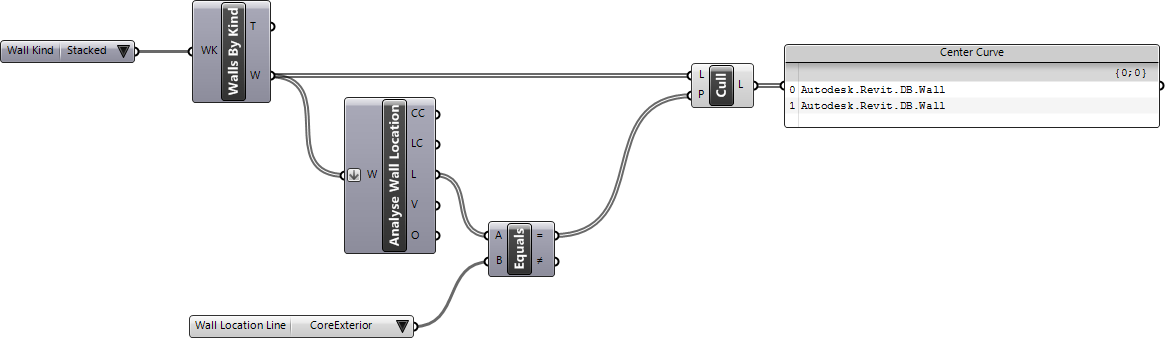
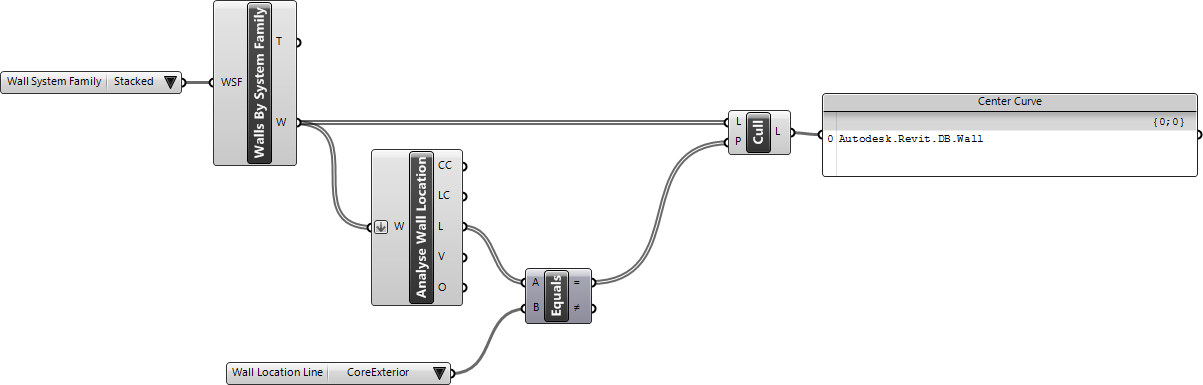
Updated wall guide and comps

Changed region(s): [[0.0, 0.0, 1.0, 1.0]]

diff --git a/docs/pages/_en/beta/guides/revit-walls.md b/docs/pages/_en/beta/guides/revit-walls.md
@@ -8,7 +8,7 @@ order: 40
 ## Querying Wall Types
 
 {% capture api_note %}
-In Revit API, Wall Types are represented by {% include api_type.html type='Autodesk.Revit.DB.WallType' title='DB.WallType' %}. Walls have three main *System Families* that are represented by {% include api_type.html type='Autodesk.Revit.DB.WallKind' title='DB.WallKind' %} enumeration and could be determined by checking `DB.WallType.Kind`
+In Revit API, Wall Types are represented by {% include api_type.html type='Autodesk.Revit.DB.WallType' title='DB.WallType' %}. Walls have three main *System Families* that are represented by {% include api_type.html type='Autodesk.Revit.DB.WallKind' title='DB.WallKind' %} enumeration and could be determined by checking `DB.WallType.Kind`. In {{ site.terms.rir }}, the term *Wall System Family* is used instead for consistency.
 {% endcapture %}
 {% include ltr/api_note.html note=api_note %}
 
@@ -32,15 +32,15 @@ Use a combination of *Element.CategoryFilter* and *Document.Elements* components
 
 {% include ltr/warning_note.html note='Note that Revit API will return the individual partial walls on a *Stacked Wall* when using this workflow' %}
 
-### By Wall Kind
+### By Wall System Family
 
-A better workflow is to collect walls based on they Wall Kind (System Family). Use a combination of components shared here to collect the walls by kind. Notice that the *Walls By Kind* component also returns the wall types of the given kind:
+A better workflow is to collect walls based on they *Wall System Family*. Use a combination of components shared here to collect the walls by their *System Family*. Notice that the *Walls By System Family* component also returns the wall types of the given *System Family*:
 
 ![]({{ "/static/images/guides/revit-walls03.png" | prepend: site.baseurl }})
 
-{% include ltr/download_comp.html archive='/static/ghnodes/Wall Kind.ghuser' name='Wall Kind' %}
+{% include ltr/download_comp.html archive='/static/ghnodes/Wall System Family.ghuser' name='Wall System Family' %}
 
-{% include ltr/download_comp.html archive='/static/ghnodes/Walls By Kind.ghuser' name='Walls By Kind' %}
+{% include ltr/download_comp.html archive='/static/ghnodes/Walls By System Family.ghuser' name='Walls By System Family' %}
 
 ### By Wall Type
 
@@ -57,7 +57,7 @@ Once you have filtered out the desired wall type using workflows described above
 
 ### Analyzing Basic Walls
 
-*Basic Walls* are a special *Wall Kind (System Family)* in Revit. They are constructed from a set of layers that are defined as part of the wall type definition. The also have a series of other unique options e.g. *Wrapping at Inserts*. The *Analyse Basic Wall Type* component shared here provide a method to analyze the *Basic Wall* types in Revit document:
+*Basic Walls* are a special *Wall System Family* in Revit. They are constructed from a set of layers that are defined as part of the wall type definition. The also have a series of other unique options e.g. *Wrapping at Inserts*. The *Analyse Basic Wall Type* component shared here provide a method to analyze the *Basic Wall* types in Revit document:
 
 ![]({{ "/static/images/guides/revit-walls05.png" | prepend: site.baseurl }})
 
@@ -125,7 +125,7 @@ Once you have filtered out the desired wall instance using workflows described a
 
 ### Common Wall Properties
 
-Use the *Analyse Wall* component shared here, to grab the common properties between all Wall Kinds. Custom *Value List* components are also provided for value comparison:
+Use the *Analyse Wall* component shared here, to grab the common properties between all *Wall System Families*. Custom *Value List* components are also provided for value comparison:
 
 ![]({{ "/static/images/guides/revit-walls11.png" | prepend: site.baseurl }})
 
@@ -155,6 +155,11 @@ In Revit API, *Location Line* of a *Basic* or *Stacked Wall* is represented by t
 A custom Value List component is also provided to assist in filtering walls by the Location Line value:
 
 ![]({{ "/static/images/guides/revit-walls14.png" | prepend: site.baseurl }})
+
+If you only need the center line of the wall, an easier and more Grasshopper-like method is to pass the Wall elements to a Curve component:
+
+![]({{ "/static/images/guides/revit-walls14a.png" | prepend: site.baseurl }})
+
 
 &nbsp;
 
